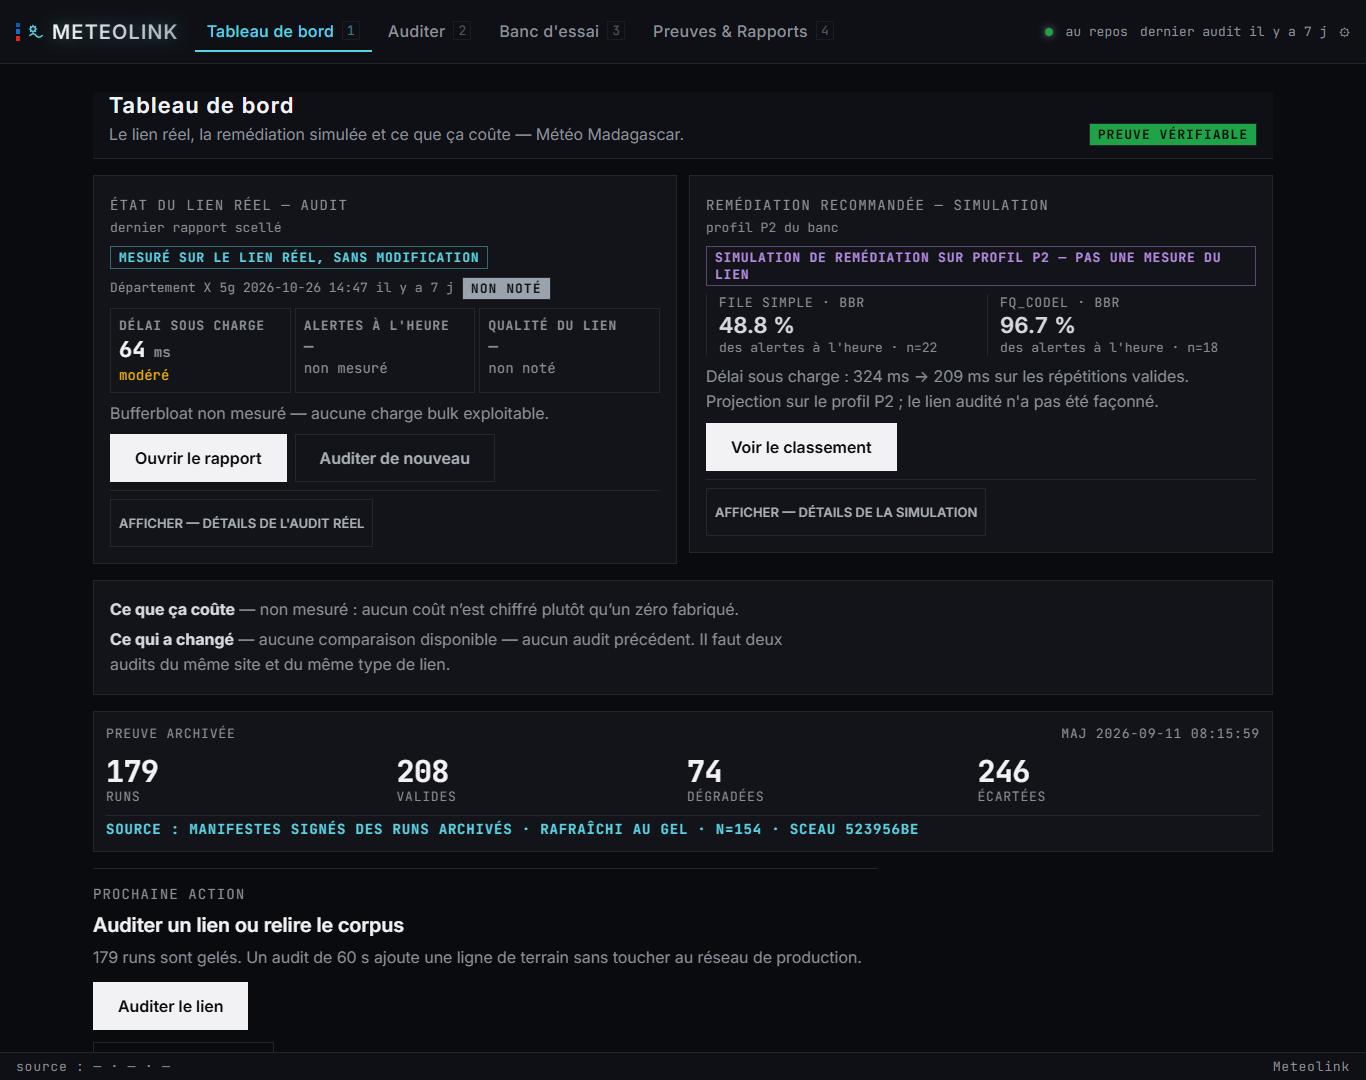
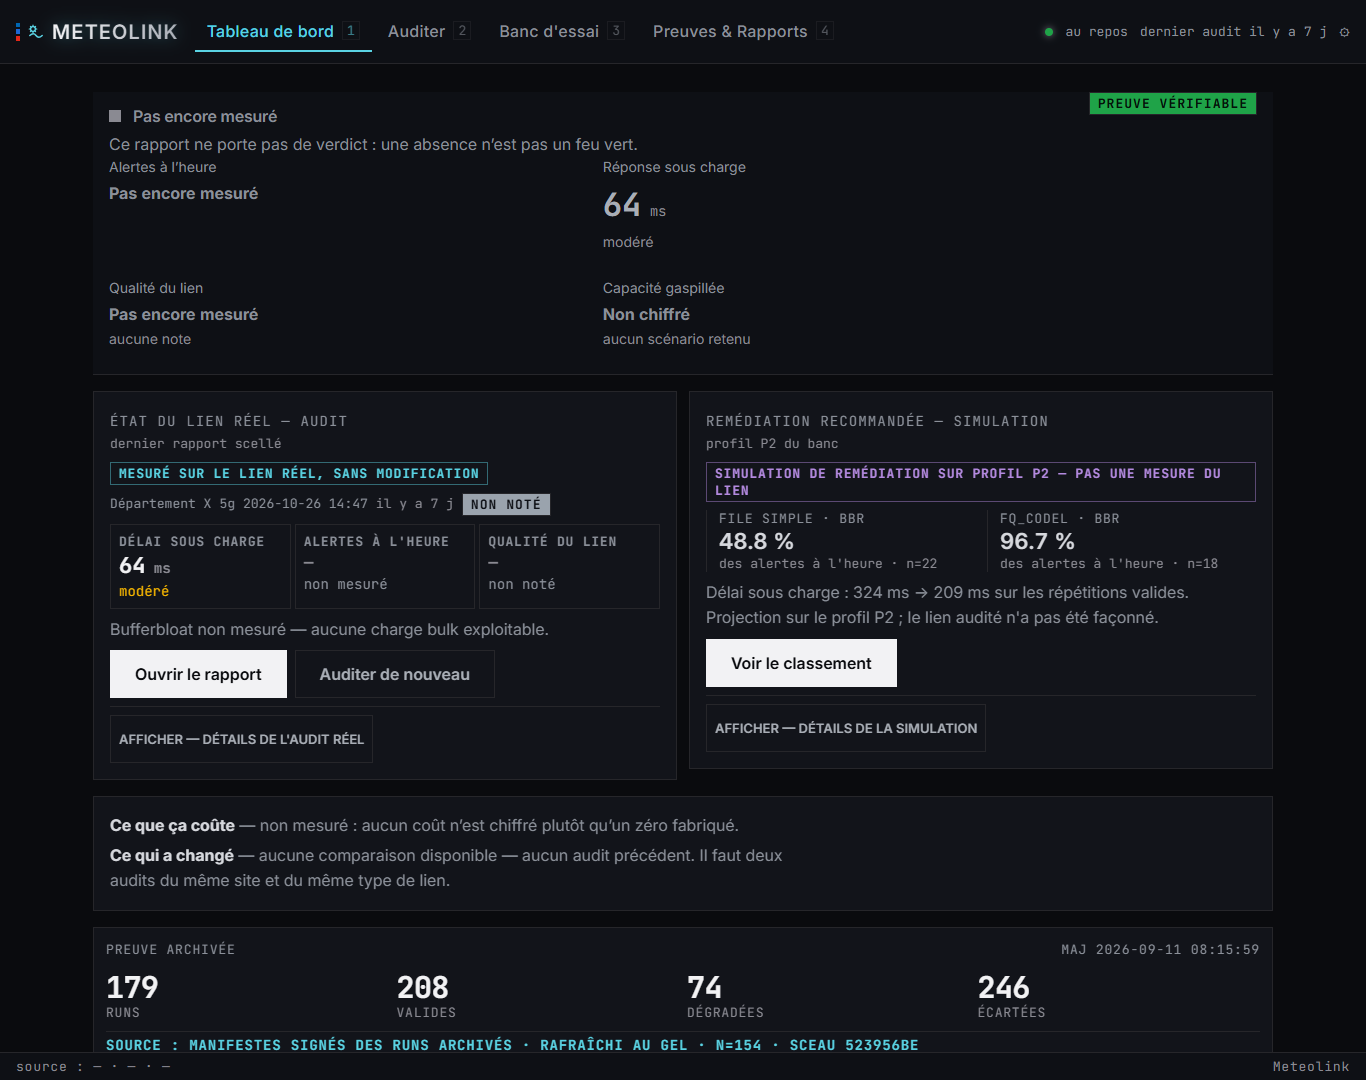
feat: le verdict scelle ses deux objectifs

diff --git a/web/frontend/src/lib/dashboard.test.ts b/web/frontend/src/lib/dashboard.test.ts
@@ -117,7 +117,7 @@ describe('operatorFacts', () => {
   const report = (patch: Partial<AuditReport> = {}): AuditReport => ({
     audit_id: 't3',
     measured: { load_attempted: true, load_measured: true, small_measured: true, http_small_p95_ms: 209 },
-    cap_sla: { measured: true, ok_pct: 96.7, breach: false },
+    cap_sla: { measured: true, ok_pct: 96.7, breach: false, target_pct: 90, deadline_ms: 300 },
     bloat_grade: 'A',
     ...patch,
   })
@@ -131,9 +131,9 @@ describe('operatorFacts', () => {
     expect(facts.map(f => f.value)).toEqual(['96,7', '209', 'A', 'Non chiffré'])
     expect(facts[0].unit).toBe('%')
     expect(facts[1].unit).toBe('ms')
-    expect(facts[0].target).toBe('objectif 95 %')
+    expect(facts[0].target).toBe('objectif 90 %')
     expect(facts[0].band).toEqual({ word: "à l'heure", level: 'ok' })
-    expect(facts[1].target).toBe('objectif 220 ms')
+    expect(facts[1].target).toBe('objectif 300 ms')
     expect(facts[1].band).toEqual({ word: 'élevé', level: 'warn' })
     expect(facts[2].target).toBe('note A')
     expect(facts[2].band).toEqual({ word: 'excellent', level: 'ok' })
@@ -187,5 +187,8 @@ describe('operatorFacts', () => {
     const facts = operatorFacts(null, 40, 100)
     expect(facts.map(f => f.value)).toEqual(['Pas encore mesuré', 'Pas encore mesuré', 'Pas encore mesuré', 'Non chiffré'])
     expect(facts.every(f => f.band === null)).toBe(true)
+    // Un rapport antérieur aux deux objectifs scellés n'en invente pas.
+    expect(facts[0].target).toBe('')
+    expect(facts[1].target).toBe('')
   })
 })

diff --git a/web/frontend/src/components/VerdictHero.dom.test.tsx b/web/frontend/src/components/VerdictHero.dom.test.tsx
@@ -24,7 +24,7 @@ const base: AuditReport = {
   audit_id: 'a1', site: 'Département X', link_type: '4g',
   measured: { load_attempted: true, load_measured: true, http_small_p95_ms: 209, small_measured: true },
   operator_verdict: { level: 'green', word: 'Lien sain', sentence: "Sous charge, la latence reste sous l'objectif." },
-  cap_sla: { measured: true, ok_pct: 96.7, breach: false },
+  cap_sla: { measured: true, ok_pct: 96.7, breach: false, target_pct: 95, deadline_ms: 220 },
   bloat_grade: 'A',
 }
 
@@ -162,6 +162,22 @@ describe('VerdictHero', () => {
       expect(out, c.word).toContain(c.dot)
       expect(sentenceText(r), c.word).toBe(`Phrase du moteur pour ${c.word}.`)
     }
+  })
+
+  it('les objectifs viennent du rapport scellé, pas d’une constante retapée', () => {
+    // 90 et 300 ne sont pas les constantes Go (95, 220) : une valeur figée dans
+    // l'interface échouerait ici.
+    const measured = { ...base, cap_sla: { measured: true, ok_pct: 90, breach: false, target_pct: 90, deadline_ms: 300 } }
+    const out = text(measured)
+    expect(out).toContain('objectif 90 %')
+    expect(out).toContain('objectif 300 ms')
+    expect(out).not.toContain('objectif 95 %')
+    expect(out).not.toContain('objectif 220 ms')
+  })
+
+  it('un rapport antérieur aux objectifs n’écrit pas de ligne vide', () => {
+    expect(markup(null)).not.toContain('<em></em>')
+    expect(text(null)).not.toContain('objectif')
   })
 
   it('sans rapport, le hero parle encore', () => {

diff --git a/web/frontend/src/lib/dashboard.ts b/web/frontend/src/lib/dashboard.ts
@@ -121,16 +121,21 @@ export function operatorFacts(
   const rawAr = cost?.ar_per_hour
   const arPerHour = finite(rawAr) ? rawAr : undefined
   const costFigure = arPerHour != null ? formatCostAR(arPerHour) : null
+  // Les deux objectifs viennent du rapport scellé, jamais d'une constante
+  // retapée ici : un rapport ancien n'en porte pas et n'affiche rien.
+  const sla = report?.cap_sla
+  const targetPct = sla?.target_pct && sla.target_pct > 0 ? `objectif ${numFr(sla.target_pct, 0)} %` : ''
+  const deadlineMs = sla?.deadline_ms && sla.deadline_ms > 0 ? `objectif ${numFr(sla.deadline_ms, 0)} ms` : ''
   return [
     {
       key: 'alerts', label: 'Alertes à l’heure',
       value: alertsPct != null ? numFr(alertsPct, 1) : 'Pas encore mesuré',
-      unit: alertsPct != null ? '%' : '', target: 'objectif 95 %', band: s.alerts,
+      unit: alertsPct != null ? '%' : '', target: targetPct, band: s.alerts,
     },
     {
       key: 'delay', label: 'Réponse sous charge',
       value: delayMs != null ? numFr(delayMs, 0) : 'Pas encore mesuré',
-      unit: delayMs != null ? 'ms' : '', target: 'objectif 220 ms', band: s.delay,
+      unit: delayMs != null ? 'ms' : '', target: deadlineMs, band: s.delay,
     },
     {
       key: 'quality', label: 'Qualité du lien',

diff --git a/web/frontend/src/components/VerdictHero.tsx b/web/frontend/src/components/VerdictHero.tsx
@@ -51,16 +51,20 @@ export function VerdictHero({ report, warnMs = 40, critMs = 100 }: {
         {verdict ? verdict.sentence : (report == null ? NO_REPORT_SENTENCE : NO_VERDICT_SENTENCE)}
       </p>
       <dl className="verdict-facts">
-        {facts.map(f => (
-          <div className="verdict-fact" key={f.key} data-empty={IS_ABSENT_VALUE.test(f.value) || undefined}>
-            <dt>{f.label}</dt>
-            <dd>
-              <b>{f.value}</b>
-              {f.unit ? <small> {f.unit}</small> : null}
-            </dd>
-            <em>{f.target}{f.band ? ` · ${f.band.word}` : ''}</em>
-          </div>
-        ))}
+        {facts.map(f => {
+          // Un rapport ancien ne porte pas d'objectif : pas de ligne vide.
+          const detail = [f.target, f.band?.word].filter(Boolean).join(' · ')
+          return (
+            <div className="verdict-fact" key={f.key} data-empty={IS_ABSENT_VALUE.test(f.value) || undefined}>
+              <dt>{f.label}</dt>
+              <dd>
+                <b>{f.value}</b>
+                {f.unit ? <small> {f.unit}</small> : null}
+              </dd>
+              {detail ? <em>{detail}</em> : null}
+            </div>
+          )
+        })}
       </dl>
     </section>
   )

diff --git a/web/frontend/src/views/DashboardView.tsx b/web/frontend/src/views/DashboardView.tsx
@@ -11,6 +11,7 @@ import { NavIcon } from '../components/NavIcon'
 import { ScienceDetails } from '../components/ScienceDetails'
 import { gradeTone } from '../components/AuditReportCard'
 import { OperatorStats } from '../components/OperatorStats'
+import { VerdictHero } from '../components/VerdictHero'
 import { nextStep, pickHeadline, type SynGroup } from '../lib/synthese'
 import { bothAbsent, remediationView, retailBound } from '../lib/dashboard'
 import { compareAudits, summaryOf } from '../lib/auditSummary'
@@ -82,10 +83,7 @@ export default function DashboardView() {
   return (
     <div className="syn dash">
       <header className="syn-hero">
-        <div>
-          <h1>Tableau de bord</h1>
-          <p>Le lien réel, la remédiation simulée et ce que ça coûte — Météo Madagascar.</p>
-        </div>
+        <VerdictHero report={report} warnMs={settings.warnMs} critMs={settings.critMs} />
         <div className="syn-hero-meta">
           <Badge tone={failed ? 'danger' : integrity ? 'success' : 'steel'}>
             {failed ? 'preuve indisponible' : integrity ? 'preuve vérifiable' : 'chargement…'}

diff --git a/web/frontend/src/views/AuditView.tsx b/web/frontend/src/views/AuditView.tsx
@@ -7,6 +7,7 @@ import { AuditReportCard, gradeTone } from '../components/AuditReportCard'
 import AuditHistoryModal from '../components/AuditHistoryModal'
 import { ModeHead } from '../components/ModeHead'
 import { OperatorStats } from '../components/OperatorStats'
+import { VerdictHero } from '../components/VerdictHero'
 import { ScienceDetails } from '../components/ScienceDetails'
 import { Badge } from '../components/ui/StatusPip'
 import { CardHead } from '../components/ui/CardHead'
@@ -101,6 +102,7 @@ export default function AuditView() {
             sub={`${report.site || 'site —'} · ${report.link_type || 'lien —'}${report.timestamp ? ` · ${report.timestamp}` : ''}`}
             right={<Badge tone={gradeTone(report.bloat_grade)}>{report.bloat_grade || 'non noté'}</Badge>}
           />
+          <VerdictHero report={report} warnMs={settings.warnMs} critMs={settings.critMs} />
           <OperatorStats report={report} warnMs={settings.warnMs} critMs={settings.critMs} includeCost />
           {report.bloat_verdict ? <p className="audit-verdict">{report.bloat_verdict}</p> : null}
 

diff --git a/web/frontend/src/styles/index.css b/web/frontend/src/styles/index.css
@@ -772,7 +772,8 @@ div[role="status"][aria-label^="Event"] { max-width: calc(100vw - 24px); flex-wr
 
 /* ---- Synthèse : accueil opérateur, une lecture, une action ---- */
 .syn { max-width: 1180px; margin: 0 auto; display: flex; flex-direction: column; gap: var(--sp-4); }
-.syn-hero { display: flex; justify-content: space-between; align-items: flex-end; gap: var(--sp-4); border-bottom: 1px solid var(--hairline); padding-bottom: var(--sp-3); }
+.syn-hero { display: flex; justify-content: space-between; align-items: flex-start; gap: var(--sp-4); border-bottom: 1px solid var(--hairline); padding-bottom: var(--sp-3); }
+.syn-hero > .verdict { flex: 1 1 auto; min-width: 0; padding: var(--sp-2) 0 var(--sp-3); }
 .syn-hero h1 { font: 600 var(--fs-head) var(--font-ui); letter-spacing: 0.06em; margin: 0; color: var(--text-primary); }
 .syn-hero p { color: var(--text-muted); font-size: var(--fs-body); margin: var(--sp-1) 0 0; max-width: 62ch; }
 .syn-hero-meta { display: flex; align-items: center; gap: var(--sp-2); color: var(--text-muted); font-size: var(--fs-tag); white-space: nowrap; }

diff --git a/web/frontend/dist/index.html b/web/frontend/dist/index.html
@@ -5,8 +5,8 @@
     <meta name="viewport" content="width=device-width, initial-scale=1.0" />
     <link rel="icon" type="image/svg+xml" href="/favicon.svg" />
     <title>Meteolink — LIEN</title>
-    <script type="module" crossorigin src="/assets/index-VVnGRNLI.js"></script>
-    <link rel="stylesheet" crossorigin href="/assets/index-DA54eRS-.css">
+    <script type="module" crossorigin src="/assets/index-n4rfoF2f.js"></script>
+    <link rel="stylesheet" crossorigin href="/assets/index-BNNNwQAW.css">
   </head>
   <body>
     <div id="root"></div>

diff --git a/web/frontend/src/lib/types.ts b/web/frontend/src/lib/types.ts
@@ -154,6 +154,8 @@ export interface AuditCapsla {
   ok_pct?: number
   breach?: boolean
   label?: string
+  target_pct?: number
+  deadline_ms?: number
 }
 
 export interface RouterOSCheck {

diff --git a/pkg/metrics/cost.go b/pkg/metrics/cost.go
@@ -83,11 +83,15 @@ const (
 )
 
 // CAPSLA — conformité des transactions CAP sous charge (modèle C).
+// Les deux objectifs voyagent avec le verdict : l'interface les affiche sans
+// les retaper, et un rapport scellé dit contre quoi il a été jugé.
 type CAPSLA struct {
-	Measured bool    `json:"measured"`
-	OKPct    float64 `json:"ok_pct"`
-	Breach   bool    `json:"breach"`
-	Label    string  `json:"label,omitempty"`
+	Measured   bool    `json:"measured"`
+	OKPct      float64 `json:"ok_pct"`
+	Breach     bool    `json:"breach"`
+	Label      string  `json:"label,omitempty"`
+	TargetPct  float64 `json:"target_pct"`
+	DeadlineMs int     `json:"deadline_ms"`
 }
 
 // AssessCAPSLA évalue les complétions 16 KiB CHARGÉES contre l'objectif DGM.
@@ -97,7 +101,10 @@ func AssessCAPSLA(loadedSmallCompletionsMs []float64) CAPSLA {
 		return CAPSLA{}
 	}
 	pct := DeadlineOKPct(loadedSmallCompletionsMs, CAPDeadlineMs)
-	s := CAPSLA{Measured: true, OKPct: pct, Breach: pct < CAPBreachThresholdPct}
+	s := CAPSLA{
+		Measured: true, OKPct: pct, Breach: pct < CAPBreachThresholdPct,
+		TargetPct: CAPBreachThresholdPct, DeadlineMs: CAPDeadlineMs,
+	}
 	if s.Breach {
 		s.Label = fmt.Sprintf("ALERTE OPÉRATIONNELLE — MANQUEMENT SLA (objectif DGM %d ms, cadre WIS 2.0)", CAPDeadlineMs)
 	}

diff --git a/pkg/metrics/cost_test.go b/pkg/metrics/cost_test.go
@@ -61,13 +61,17 @@ func TestB2BTariffs(t *testing.T) {
 
 func TestAssessCAPSLA(t *testing.T) {
 	// Aucun échantillon chargé : non mesuré, jamais un succès de complaisance.
-	if s := AssessCAPSLA(nil); s.Measured || s.Breach {
+	if s := AssessCAPSLA(nil); s.Measured || s.Breach || s.TargetPct != 0 || s.DeadlineMs != 0 {
 		t.Fatalf("sans échantillons : %+v", s)
 	}
 	// 3/5 sous 220 ms = 60 % < 95 % : manquement (100,150,210 passent ; 700,300 échouent).
 	s := AssessCAPSLA([]float64{100, 150, 210, 700, 300})
 	if !s.Measured || !s.Breach || s.OKPct != 60 {
 		t.Fatalf("60%% attendu en échec : %+v", s)
+	}
+	// Les deux objectifs voyagent avec le verdict : sans eux l'interface les retape.
+	if s.TargetPct != CAPBreachThresholdPct || s.DeadlineMs != CAPDeadlineMs {
+		t.Fatalf("objectifs non scellés : %+v", s)
 	}
 	if s.Label == "" {
 		t.Fatal("un manquement doit porter son étiquette opérationnelle")

diff --git a/pkg/audit/report.go b/pkg/audit/report.go
@@ -342,7 +342,10 @@ func BuildReport(res *Result, link remediate.Link, qdisc string, asymmetric, cpu
 	}
 	// SLA CAP (modèle C) : l'objectif opérateur DGM 220 ms, cadre WIS 2.0 —
 	// jamais présenté comme un seuil imposé par l'OMM.
-	rep.CAPSLA = metrics.CAPSLA{Measured: res.CAPSLAMeasured, OKPct: res.CAPDeadlineOKPct, Breach: res.CAPSLABreach, Label: res.CAPSLALabel}
+	rep.CAPSLA = metrics.CAPSLA{
+		Measured: res.CAPSLAMeasured, OKPct: res.CAPDeadlineOKPct, Breach: res.CAPSLABreach, Label: res.CAPSLALabel,
+		TargetPct: metrics.CAPBreachThresholdPct, DeadlineMs: metrics.CAPDeadlineMs,
+	}
 
 	// Verdict opérateur : uniquement des faits déjà gelés dans ce rapport.
 	// La note vient de rep.Grade (donc res.BloatGrade), jamais d'une chaîne
